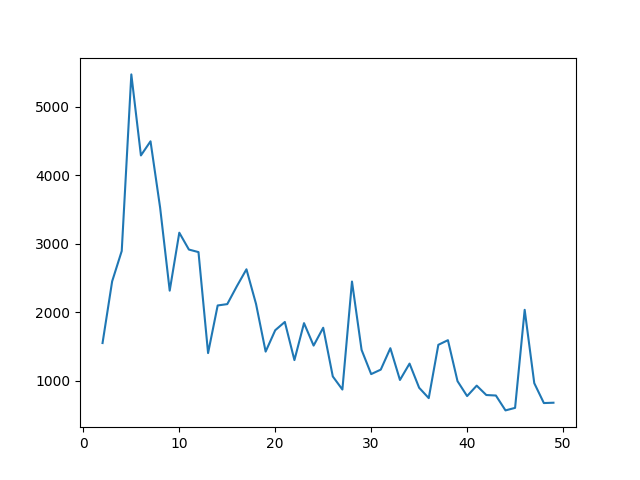
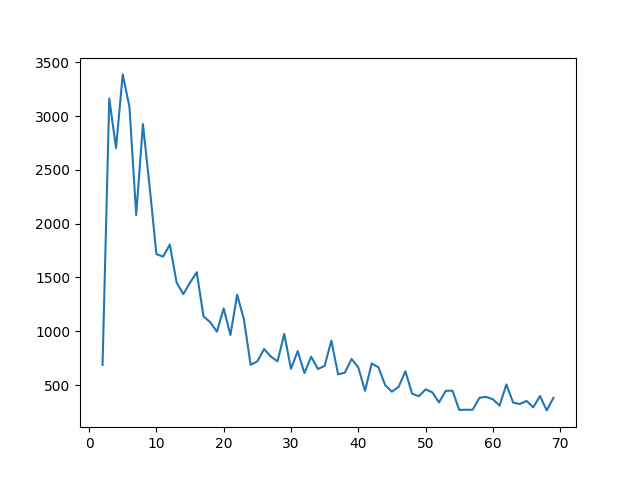
added sample_plots

diff --git a/task_3.py b/task_3.py
@@ -15,7 +15,7 @@ def wang_cross_validation(k, c, full_data: list):
 	for _ in range(c):
 		ps_data = full_data.copy()
 		random.shuffle(ps_data)
-		m = int((3/8)*len(full_data))
+		m = int((2/5)*len(full_data))
 		s1 = ps_data[:m]
 		s2 = ps_data[m:2*m]
 		s3 = ps_data[2*m:]
@@ -35,7 +35,7 @@ def plot_metric(x, y, name):
 	print("generated",name+".png")
 	plt.close()
 
-for k in range(2, 100):
+for k in range(2, 70):
 	print("K =",k,"done")
 	init_centers = k_means.random_centers(k, list_of_data)
 	clusters = k_means.k_means(init_centers, list_of_data)
